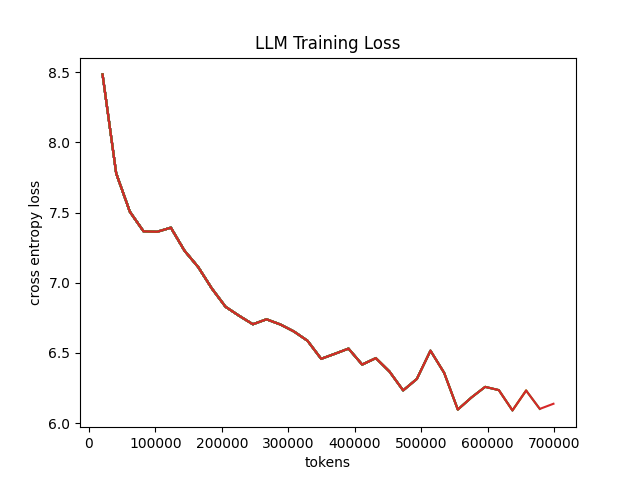
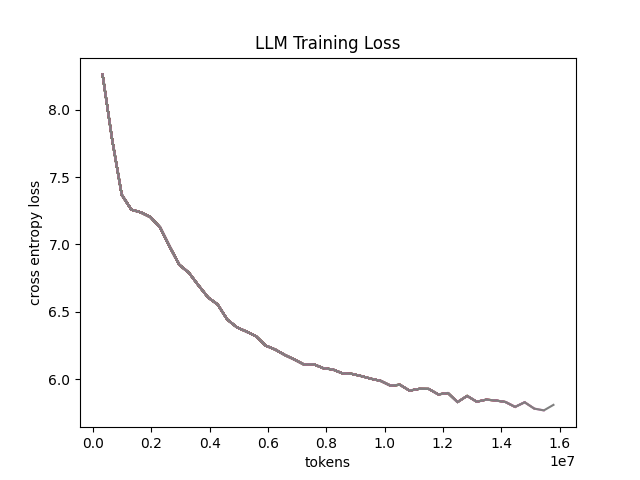
gpu run

diff --git a/module_6_programming/train_model.py b/module_6_programming/train_model.py
@@ -39,25 +39,23 @@ def plot_loss_curve(x, y):
     plt.savefig("./training_curve.png")
 
 def train():
-
-    device = torch.device("cpu") # go back to gpu soon
-    
-    # adjust as needed
+    device = torch.device("cuda")    
     model = GPTModel(d_model=512, n_heads=16, layers=8, vocab_size=10000, max_seq_len=256)
     param_count = sum(p.numel() for p in model.parameters())
     print("Model has", param_count, "parameters.")
 
     model = model.to(device)
 
-    opt = torch.optim.AdamW(model.parameters(), lr=6e-4) # lr of gpt-2-small
-    scheduler = cosine_with_warmup_lr_scheduler(opt, 1000, 256)
+    batch_size = 128
+    opt = torch.optim.AdamW(model.parameters(), lr=6e-4, betas=(0.9, 0.95)) # lr of gpt-2-small
+    total_steps = 1e8 / batch_size
+    scheduler = cosine_with_warmup_lr_scheduler(opt, total_steps, int(total_steps * 0.01))
     loss_fn = torch.nn.CrossEntropyLoss()
 
     with open('packed_data.npy', 'rb') as f:
         data = np.load(f)
 
     # We have to batch the data
-    batch_size = 8
     full_batches = np.shape(data)[0] // batch_size
     batched_data = data[:full_batches * batch_size].reshape(-1, batch_size, np.shape(data)[-1])
 
@@ -71,9 +69,9 @@ def train():
         opt.zero_grad()
 
         dat = batch[:, :-1]
-        dat = torch.tensor(dat)
+        dat = torch.tensor(dat).to(device)
         targ = batch[:, 1:]
-        targ = torch.tensor(targ)
+        targ = torch.tensor(targ).to(device)
 
         out = model(dat)
         out = out.permute(0, 2, 1)
